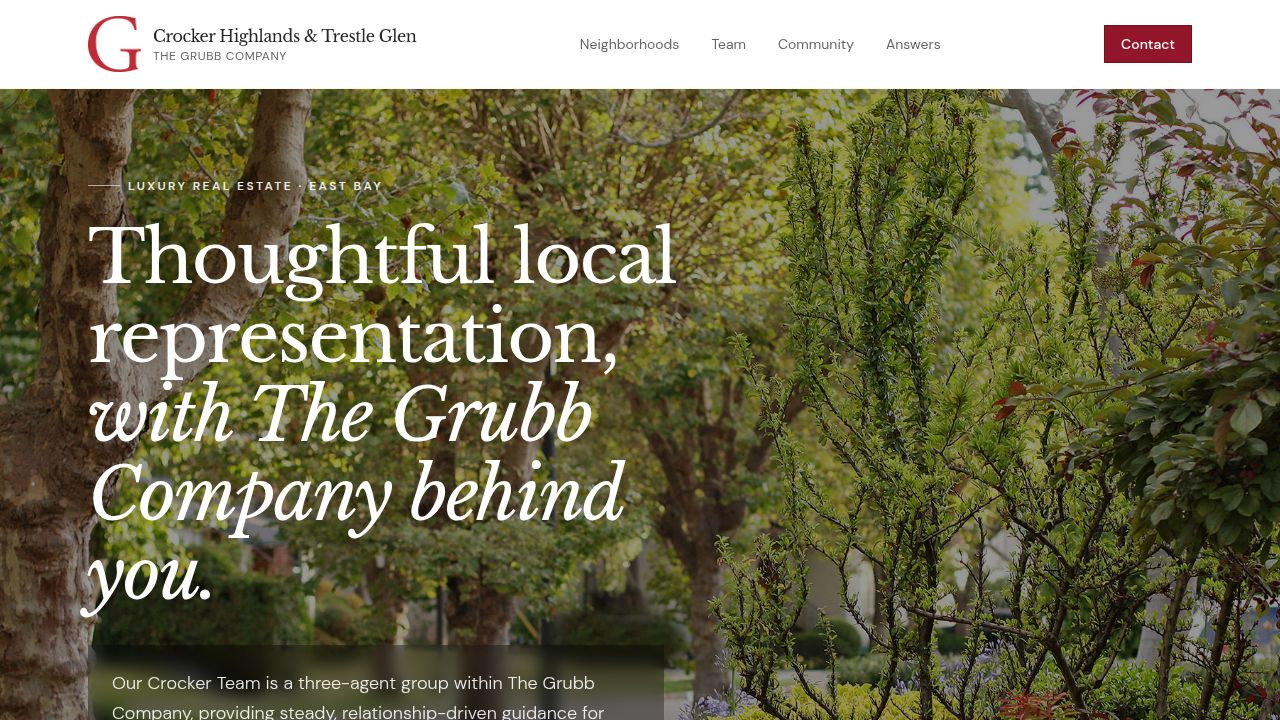
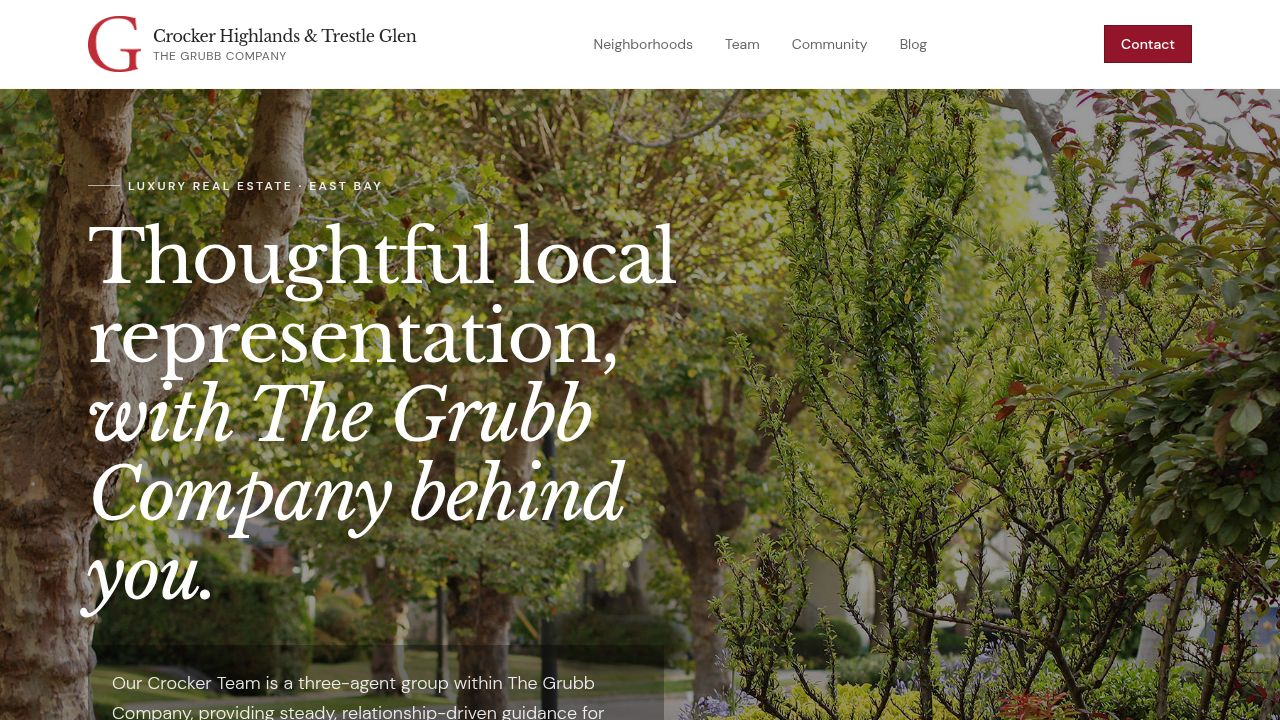
Update website navigation and content to reflect the "Blog" section
Rename "Answers" to "Blog" in navigation, headers, and site map. Update links and text to refer to the blog.

Replit-Commit-Author: Agent
Replit-Commit-Session-Id: 1aaa3446-266c-4e90-b322-066459adb6b6
Replit-Commit-Checkpoint-Type: full_checkpoint
Replit-Commit-Event-Id: e89b5ba7-01db-4a2e-9d92-b1fc318e1deb
Replit-Commit-Screenshot-Url: https://storage.googleapis.com/screenshot-production-us-central1/7eabc765-81a7-4c4c-8de8-f4eca0690c2e/1aaa3446-266c-4e90-b322-066459adb6b6/FZ6C9fR
Replit-Helium-Checkpoint-Created: true

diff --git a/client/src/pages/home.tsx b/client/src/pages/home.tsx
@@ -159,7 +159,7 @@ export default function Home() {
                 className="inline-flex items-center text-sm font-medium text-white transition-colors hover:text-white/80"
                 data-testid="link-hero-qa"
               >
-                Read neighborhood Q&A
+                Read our blog
                 <ArrowRight className="ml-2 size-4" />
               </a>
             </div>
@@ -278,7 +278,7 @@ export default function Home() {
              <div className="space-y-3">
                <h3 className="font-serif text-lg">Fast Answers</h3>
                <p className="text-sm text-muted-foreground leading-relaxed">
-                 Our Q&A library is built to answer the questions people actually search.
+                 Our blog is built to answer the questions people actually search.
                </p>
              </div>
              <div className="space-y-3">
@@ -306,7 +306,7 @@ export default function Home() {
               href="/blog"
               className="inline-flex items-center text-sm font-medium transition-colors hover:text-primary"
             >
-              Read Q&A by neighborhood
+              Read our blog
               <ArrowRight className="ml-2 size-4" />
             </a>
           </div>

diff --git a/client/src/components/layout.tsx b/client/src/components/layout.tsx
@@ -58,7 +58,7 @@ export function Layout({ children }: { children: React.ReactNode }) {
                 className={`text-muted-foreground transition-colors hover:text-primary ${location.startsWith("/blog") ? "text-primary font-medium" : ""}`}
                 data-testid="link-blog"
               >
-                Answers
+                Blog
               </a>
             </Link>
           </nav>
@@ -93,7 +93,7 @@ export function Layout({ children }: { children: React.ReactNode }) {
                 className="inline-flex items-center text-sm font-medium transition-colors hover:text-primary"
                 data-testid="link-footer-blog"
               >
-                Answers
+                Blog
               </a>
             </Link>
             <ContactDialog>

diff --git a/client/src/pages/blog.tsx b/client/src/pages/blog.tsx
@@ -116,7 +116,7 @@ export default function Blog() {
                         {a.excerpt}
                       </div>
                       <div className="mt-4 inline-flex items-center text-sm font-medium">
-                        Read answer
+                        Read post
                         <ArrowRight
                           className="ml-2 size-4 transition-transform group-hover:translate-x-0.5"
                           aria-hidden="true"
